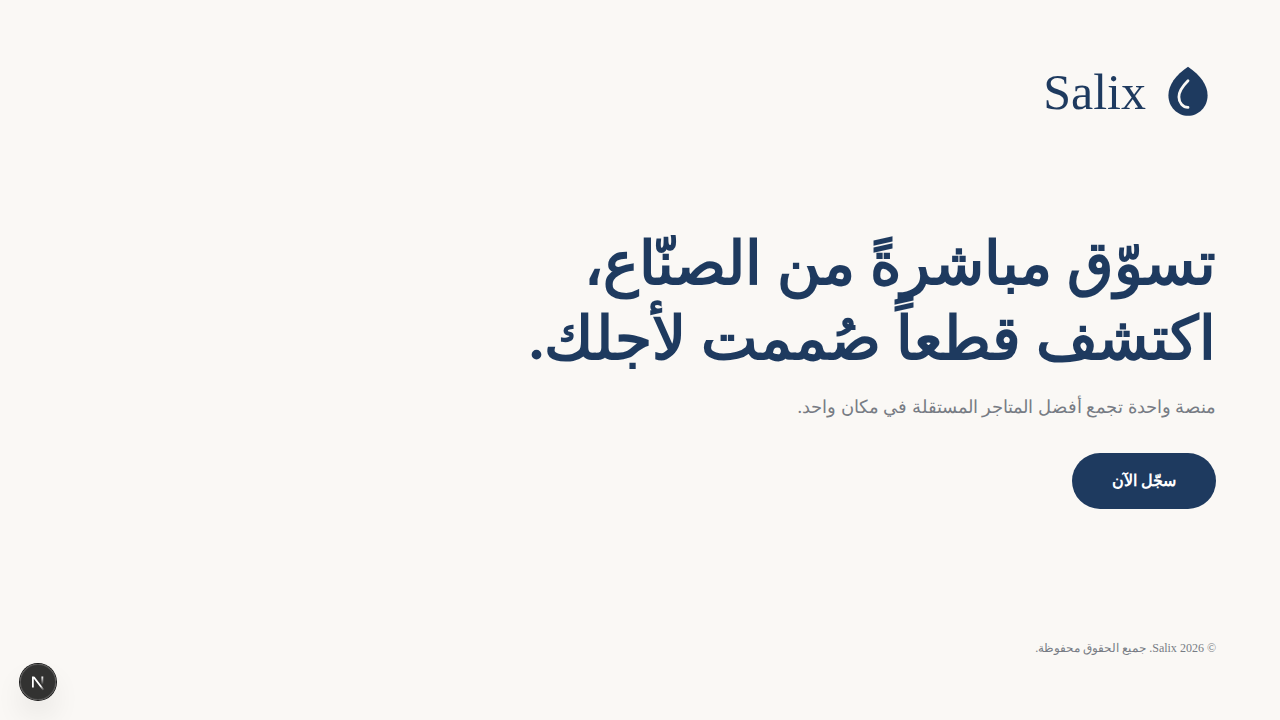
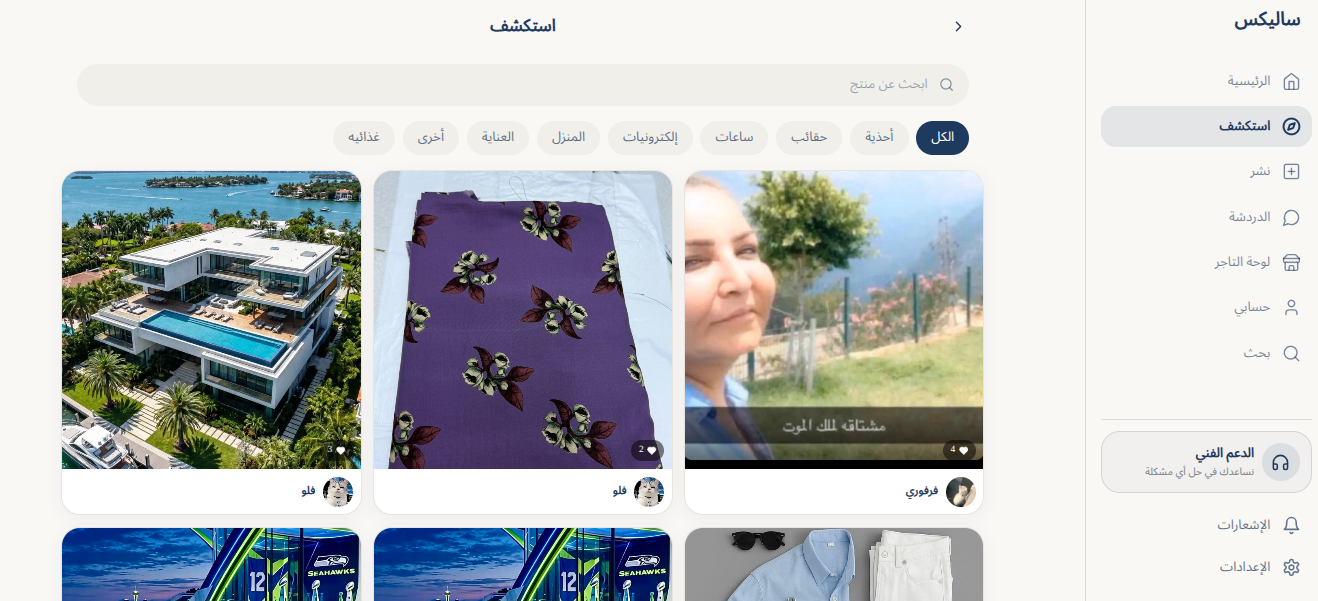
Restore previews and use uploaded Silex screens

diff --git a/app.js b/app.js
@@ -79,7 +79,9 @@ const projects = [
     gallery: [
       "./assets/projects/silex-1.png",
       "./assets/projects/silex-2.png",
-      "./assets/projects/silex-3.png"
+      "./assets/projects/silex-3.png",
+      "./assets/projects/silex-4.png",
+      "./assets/projects/silex-5.png"
     ]
   }
 ];
